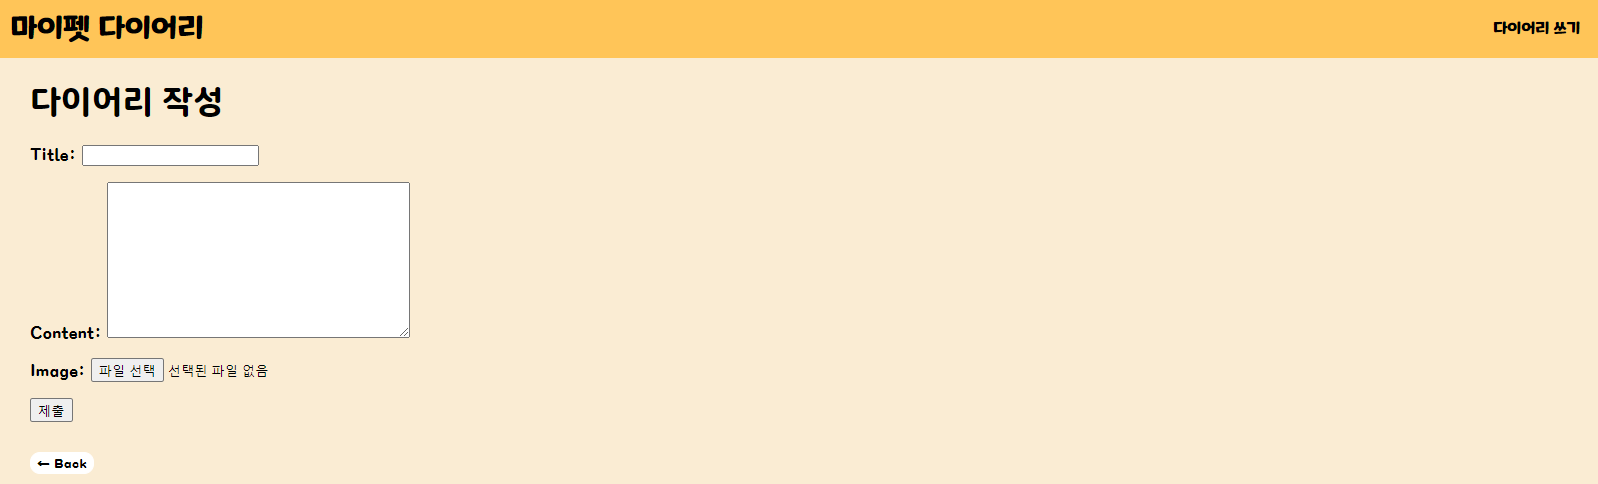
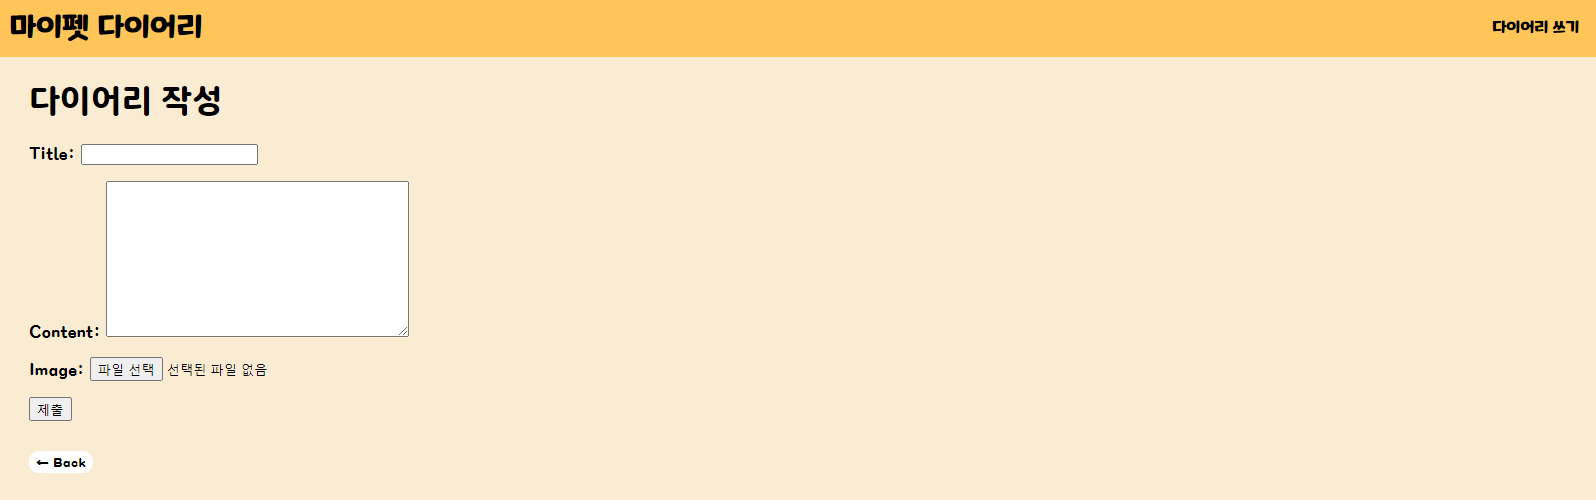
nav bar, README 수정

diff --git a/articles/templates/articles/update.html b/articles/templates/articles/update.html
@@ -16,7 +16,7 @@
         <div>마이펫 다이어리</div>
       </a>
       <a href="{% url 'articles:update' article.pk %}" class="write-link">
-        <div>일기 쓰기</div>
+        <div>다이어리 쓰기</div>
       </a>
     </div>
   </header>

diff --git a/articles/templates/articles/detail.html b/articles/templates/articles/detail.html
@@ -16,7 +16,7 @@
         <div>마이펫 다이어리</div>
       </a>
       <a href="{% url 'articles:create' %}" class="write-link">
-        <div>일기 쓰기</div>
+        <div>다이어리 쓰기</div>
       </a>
     </div>
   </header>

diff --git a/articles/templates/articles/home.html b/articles/templates/articles/home.html
@@ -16,7 +16,7 @@
         <div>마이펫 다이어리</div>
       </a>
       <a href="{% url 'articles:create' %}" class="write-link">
-        <div>일기 쓰기</div>
+        <div>다이어리 쓰기</div>
       </a>
     </div>
   </header>
